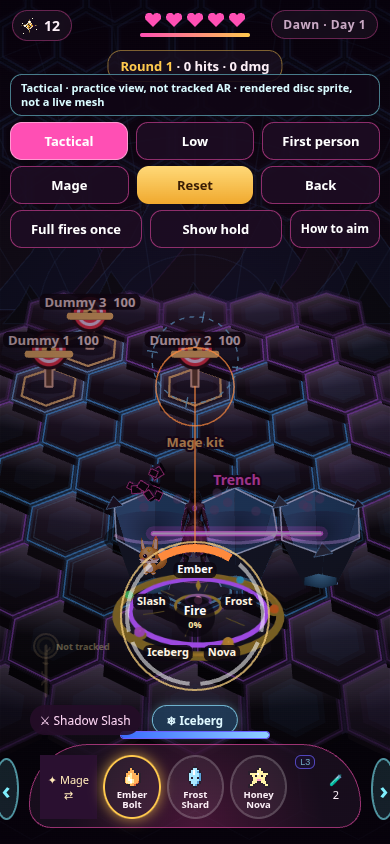
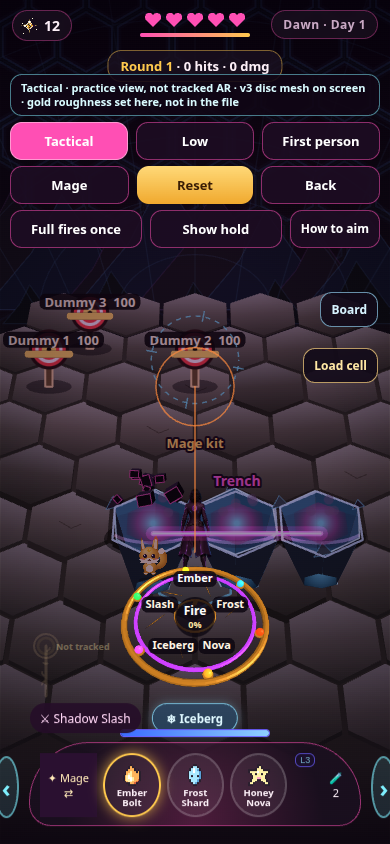
Show a stone training yard with hexes only while aiming
The training yard drops the idle neon grid for a brighter stone floor. Landscape and far tiles stay flatter. Aim, danger, the standing hex, and each slash cell stay visible. Hit tests, trench rules, the map, and map raids are unchanged.

diff --git a/v7/index.html b/v7/index.html
@@ -1707,8 +1707,10 @@ function drawWireUnder(cam, tiles, T, sc) {
 /* overlay: pink seams that glow through the painted tiles, brighter where a pulse front passes */
 function drawWireOver(cam, tiles, T, sc) {
   const m = wireMix(), g = ctx, raid = sc === 'arena' && AR.kind === 'raid';
-  const base = raid ? .07 : .1 + m * .5 + WIRE.glow * .3;
-  g.strokeStyle = raid ? `rgba(150,190,220,${base})` : `rgba(255,79,180,${Math.min(1, base)})`; g.lineWidth = raid ? 1 : 1.1 + m; g.beginPath(); for (const t of tiles) addHex(cam, t.x, t.y, .97, g); g.stroke();
+  if (!(raid && yardStage())) {
+    const base = raid ? .07 : .1 + m * .5 + WIRE.glow * .3;
+    g.strokeStyle = raid ? `rgba(150,190,220,${base})` : `rgba(255,79,180,${Math.min(1, base)})`; g.lineWidth = raid ? 1 : 1.1 + m; g.beginPath(); for (const t of tiles) addHex(cam, t.x, t.y, .97, g); g.stroke();
+  }
   if (WIRE.pulses.some(p => p.sc === sc)) {
     g.globalCompositeOperation = 'lighter';
     for (const t of tiles) { const a = pulseAt(t.x, t.y, sc); if (a < .05) continue; g.strokeStyle = `rgba(255,110,200,${Math.min(1, a)})`; g.lineWidth = 2.4; g.beginPath(); addHex(cam, t.x, t.y, .96, g); g.stroke(); }
@@ -2010,6 +2012,46 @@ function punchBlock() {
 }
 
 /* ---------- arena render ---------- */
+function yardStage() {
+  return !!(TRAIN.on && !TRAIN.king && G.scene === 'arena' && AR.kind === 'raid');
+}
+function yardAiming() {
+  if (!yardStage() || !TRAIN.aim) return false;
+  if (typeof cellOwns === 'function' && cellOwns()) return false;
+  if (TRAIN.cap && (TRAIN.cap.aimed || TRAIN.cap.part === 'center')) return true;
+  return GUN.cls === 'gunner' && !!AR.ptr;
+}
+function yardPreviewHexes() {
+  if (!yardAiming()) return [];
+  const gun = GUN.cls === 'gunner';
+  const rim = currentRim()[TRAIN.sel[gun ? 'gunner' : 'mage']] || (gun ? GUN_RIM[0] : MAGE_RIM[0]);
+  const aim = TRAIN.aim;
+  if (gun) {
+    if (rim.id !== 'frag') return [];
+    const [q, r] = xyHex(aim.x, aim.y);
+    return onField(q, r) ? [[q, r]] : [];
+  }
+  if (rim.id === 'slash') {
+    const [px, py] = pPos();
+    let dx = aim.x - px, dy = aim.y - py;
+    const L = Math.hypot(dx, dy) || 1;
+    dx /= L; dy /= L;
+    return hexesOnLine(px + dx * .9, py + dy * .9, aim.x + dx * 1.6, aim.y + dy * 1.6);
+  }
+  if (rim.id === 'iceberg') {
+    const { q, r } = AR.ph, row = r - 1, LV = wallLv(), hexes = [];
+    for (let i = -1; i <= LV.n - 2; i++) { const h = [q + i, row]; if (onField(h[0], h[1])) hexes.push(h); }
+    return hexes;
+  }
+  if (rim.id === 'ember' || rim.id === 'frost' || rim.id === 'nova') {
+    const [q, r] = xyHex(aim.x, aim.y);
+    return onField(q, r) ? [[q, r]] : [];
+  }
+  return [];
+}
+function yardFloorInfo() {
+  return { yard: yardStage(), spare: W > H, grid: yardStage() ? 'hidden' : 'shown' };
+}
 function renderArenaFloor() {
   if (acv.width !== cv.width || acv.height !== cv.height) { acv.width = cv.width; acv.height = cv.height; }
   const g = actx, c = AR.cam; g.setTransform(DPR, 0, 0, DPR, 0, 0);
@@ -2030,7 +2072,11 @@ function renderArenaFloor() {
       const station = TRAIN.on && !TRAIN.king && ((q === -1 && r === -2) || (q === 1 && r === -2) || (q === 0 && r === -3));
       const lane = TRAIN.on && !TRAIN.king && Math.abs(q) <= 1 && r <= -1 && r >= -4;
       const n = hsh(q * 9 + 2, r * 5 + 1);
-      if (station) { col = '#322838'; lift = 7; }
+      if (yardStage()) {
+        const spare = W > H || d > 2;
+        col = spare ? (n > .6 ? '#6b625c' : '#5e564f') : (station ? '#7a6e66' : lane ? (n > .5 ? '#73675f' : '#655c54') : (n > .72 ? '#6e645c' : n > .38 ? '#5f564f' : '#524b45'));
+        lift = spare ? 1.6 : 3.4;
+      } else if (station) { col = '#322838'; lift = 7; }
       else if (lane) { col = n > .5 ? '#241c2a' : '#1a141f'; lift = 6; }
       else { col = n > .72 ? '#2c2432' : n > .38 ? '#1c1622' : '#121016'; lift = d > 3 ? 3 : 5.5 + n * 2.2; }
     }
@@ -2046,14 +2092,23 @@ function renderArenaFloor() {
       const face = g.createLinearGradient(tx, ty, bx, by);
       face.addColorStop(0, shade(col, .32)); face.addColorStop(.48, col); face.addColorStop(1, shade(col, -.4));
       g.fillStyle = face; g.fill();
-      hexPath(c, x, y, .5, g); g.fillStyle = 'rgba(90,190,255,.055)'; g.fill();
+      if (!yardStage()) { hexPath(c, x, y, .5, g); g.fillStyle = 'rgba(90,190,255,.055)'; g.fill(); }
       hexPath(c, x, y, .94, g);
     } else { g.fillStyle = col; g.fill(); }
     const station = TRAIN.on && !TRAIN.king && AR.kind === 'raid' && ((q === -1 && r === -2) || (q === 1 && r === -2) || (q === 0 && r === -3));
-    const seam = AR.kind === 'hack' ? (d <= 1 && AR.share > .5 ? '255,201,77' : '255,79,180') : (station ? '140,220,255' : d <= 2 ? '80,200,255' : '176,96,220');
-    const lowSeam = raidViewLow();
-    g.strokeStyle = `rgba(${seam},${lowSeam ? .08 : .16})`; g.lineWidth = lowSeam ? 3 : 6; g.stroke(); g.strokeStyle = `rgba(${seam},${d > 3 ? .35 : (lowSeam ? .55 : .8)})`; g.lineWidth = 1.5; g.stroke();
-    if (station) { hexPath(c, x, y, .7, g); g.strokeStyle = 'rgba(255,214,120,.95)'; g.lineWidth = 2.2; g.stroke(); }
+    if (yardStage()) {
+      const spare = W > H || d > 2, n = hsh(q * 9 + 2, r * 5 + 1);
+      if (!spare && n > .66) {
+        const [X, Y] = proj(c, x, y);
+        g.strokeStyle = 'rgba(42,32,28,.45)'; g.lineWidth = 1;
+        g.beginPath(); g.moveTo(X - 10, Y - 2); g.lineTo(X + 2, Y + 5); g.lineTo(X + 12, Y + 1); g.stroke();
+      }
+    } else {
+      const seam = AR.kind === 'hack' ? (d <= 1 && AR.share > .5 ? '255,201,77' : '255,79,180') : (station ? '140,220,255' : d <= 2 ? '80,200,255' : '176,96,220');
+      const lowSeam = raidViewLow();
+      g.strokeStyle = `rgba(${seam},${lowSeam ? .08 : .16})`; g.lineWidth = lowSeam ? 3 : 6; g.stroke(); g.strokeStyle = `rgba(${seam},${d > 3 ? .35 : (lowSeam ? .55 : .8)})`; g.lineWidth = 1.5; g.stroke();
+      if (station) { hexPath(c, x, y, .7, g); g.strokeStyle = 'rgba(255,214,120,.95)'; g.lineWidth = 2.2; g.stroke(); }
+    }
   }
   AR.floorDirty = false;
 }
@@ -2088,13 +2143,16 @@ function drawArena(T) {
   const sh = AR.shake > 0 ? AR.shake * 6 : 0; ctx.save(); if (sh) ctx.translate((Math.random() - .5) * sh, (Math.random() - .5) * sh);
   if (AR.kind === 'raid') {
     // The pink underworld reads as hot seams once the floor is translucent. Raid plates stay opaque; gaps are a dim cyan lattice.
-    ctx.fillStyle = '#07060c'; ctx.fillRect(0, 0, W, H);
-    ctx.strokeStyle = 'rgba(110,160,200,.16)'; ctx.lineWidth = 1; ctx.beginPath();
-    for (const t of AHEX) if (t.d <= 5) addHex(c, t.x, t.y, .99, ctx);
-    ctx.stroke();
+    // Training yard keeps that lattice off. The hex math is unchanged; cues draw only while aiming.
+    ctx.fillStyle = yardStage() ? '#3a342f' : '#07060c'; ctx.fillRect(0, 0, W, H);
+    if (!yardStage()) {
+      ctx.strokeStyle = 'rgba(110,160,200,.16)'; ctx.lineWidth = 1; ctx.beginPath();
+      for (const t of AHEX) if (t.d <= 5) addHex(c, t.x, t.y, .99, ctx);
+      ctx.stroke();
+    }
     ctx.drawImage(acv, 0, 0, W, H);
   } else { drawWireUnder(c, AHEX, T, 'arena'); ctx.globalAlpha = surfaceAlpha(); ctx.drawImage(acv, 0, 0, W, H); ctx.globalAlpha = 1; }
-  drawLowAir(T); drawWireOver(c, AHEX.filter(h => h.d <= 4), T, 'arena'); drawRaidShimmer(c, T);
+  drawLowAir(T); drawWireOver(c, AHEX.filter(h => h.d <= 4), T, 'arena'); if (!yardStage()) drawRaidShimmer(c, T);
   if (TRAIN.on && TRAIN.pulses) for (const p of TRAIN.pulses) {
     const k = clamp(1 - p.t / 0.42, 0, 1), [x, y] = hexXY(p.q, p.r);
     hexPath(c, x, y, 0.82); ctx.globalAlpha = 0.28 * k; ctx.fillStyle = p.col; ctx.fill();
@@ -2115,6 +2173,7 @@ function drawArena(T) {
     if (m.state === 'live' || m.state === 'skin') { if (m.D.aggroR < 50) { ellipseOnGround(c, m.x, m.y, m.D.aggroR, 32); ctx.strokeStyle = m.aggro ? 'rgba(255,79,111,.35)' : 'rgba(255,255,255,.35)'; ctx.setLineDash(m.aggro ? [] : [6, 6]); ctx.lineWidth = 1.5; ctx.stroke(); ctx.setLineDash([]); } }
   }
   drawZones(c, T);
+  if (yardStage()) drawYardCues(c, T);
   // nova ring
   if (AR.novaT >= 0) { const [px, py] = pPos(); ellipseOnGround(c, px, py, AR.novaT * 7, 40); ctx.strokeStyle = `rgba(255,201,77,${1 - AR.novaT / .9})`; ctx.lineWidth = 6; ctx.stroke(); }
   // sprites sorted by depth
@@ -2443,7 +2502,38 @@ function bossLive(m) { $('#bossCD').classList.add('hide'); SFX.roar(); buzz([80,
 
 /* ---------- drawing ---------- */
 function drawPlayerArea(c, T) {
-  for (const [q, r] of PAREA) { const [x, y] = hexXY(q, r), me = q === AR.ph.q && r === AR.ph.r; hexPath(c, x, y, .8); ctx.strokeStyle = me ? 'rgba(127,240,255,.85)' : 'rgba(127,240,255,.22)'; ctx.lineWidth = me ? 2.4 : 1.2; ctx.stroke(); if (me) { ctx.fillStyle = 'rgba(127,240,255,.08)'; ctx.fill(); } }
+  const yard = yardStage();
+  for (const [q, r] of PAREA) { const [x, y] = hexXY(q, r), me = q === AR.ph.q && r === AR.ph.r; if (yard && !me) continue; hexPath(c, x, y, .8); ctx.strokeStyle = me ? 'rgba(127,240,255,.85)' : 'rgba(127,240,255,.22)'; ctx.lineWidth = me ? 2.4 : 1.2; ctx.stroke(); if (me) { ctx.fillStyle = 'rgba(127,240,255,.08)'; ctx.fill(); } }
+}
+function drawYardCues(c, T) {
+  if (!yardAiming()) return;
+  const preview = yardPreviewHexes();
+  const [aq, ar] = xyHex(TRAIN.aim.x, TRAIN.aim.y);
+  for (const [q, r] of preview) {
+    if (!onField(q, r)) continue;
+    const [x, y] = hexXY(q, r);
+    hexPath(c, x, y, .9); ctx.fillStyle = 'rgba(255,196,80,.32)'; ctx.fill();
+    ctx.strokeStyle = 'rgba(255,220,140,.98)'; ctx.lineWidth = 3; ctx.stroke();
+  }
+  if (!onField(aq, ar)) return;
+  const [x, y] = hexXY(aq, ar), listed = preview.some(h => h[0] === aq && h[1] === ar);
+  hexPath(c, x, y, listed ? .62 : .9);
+  if (!listed) { ctx.fillStyle = 'rgba(127,240,255,.18)'; ctx.fill(); }
+  ctx.strokeStyle = 'rgba(190,255,255,.98)'; ctx.lineWidth = 2.6; ctx.stroke();
+}
+function drawYardPit(c, e, x, y, X, Y, f, k, st, T) {
+  ctx.save();
+  ctx.globalAlpha = Math.min(1, k);
+  hexPath(c, x, y, .62);
+  const g = ctx.createRadialGradient(X, Y, 2 * f, X, Y, 34 * f);
+  if (st === 'fire') { g.addColorStop(0, 'rgba(255,196,90,.95)'); g.addColorStop(.5, 'rgba(190,48,16,.8)'); g.addColorStop(1, 'rgba(40,10,8,.15)'); }
+  else if (st === 'ice') { g.addColorStop(0, 'rgba(230,252,255,.9)'); g.addColorStop(1, 'rgba(70,150,190,.2)'); }
+  else { g.addColorStop(0, 'rgba(150,235,255,.8)'); g.addColorStop(.42, 'rgba(210,70,160,.5)'); g.addColorStop(1, 'rgba(20,10,16,0)'); }
+  ctx.fillStyle = g; ctx.fill();
+  ctx.restore();
+  hexPath(c, x, y, .94);
+  ctx.strokeStyle = st === 'fire' ? 'rgba(255,170,80,.95)' : 'rgba(210,240,255,.9)';
+  ctx.lineWidth = 2.2; ctx.stroke();
 }
 function drawZones(c, T) {
   for (const z of AR.zones) {
@@ -2852,7 +2942,8 @@ function terrK(e) { const u = clamp((e.t - e.delay) / .28, 0, 1), back = 1 + 2.4
 function drawTerrain(c, T) {
   const es = [...FIELD.terr.values()].sort((a, b) => a.r - b.r);
   for (const e of es) { const k = terrK(e); if (k <= 0) continue; const [x, y] = hexXY(e.q, e.r), [X, Y, f] = proj(c, x, y), st = hexState(e.q, e.r);
-    if (e.shape === 'berm') drawBerm(c, e, x, y, X, Y, f, k, st, T); else drawGully(c, e, x, y, X, Y, f, k, st, T); }
+    if (e.shape === 'berm') drawBerm(c, e, x, y, X, Y, f, k, st, T);
+    else { drawGully(c, e, x, y, X, Y, f, k, st, T); if (yardStage()) drawYardPit(c, e, x, y, X, Y, f, k, st, T); } }
 }
 function hexPts(c, x, y, s, lift) { return HEXC.map(p => { const P = proj(c, x + p[0] * s, y + p[1] * s); return [P[0], P[1] - lift(p)]; }); }
 function drawBerm(c, e, x, y, X, Y, f, k, st, T) { // low grassy berm: gentle heave, green top, lit crest
@@ -5577,6 +5668,7 @@ window.__train = {
   CELL, CELL_TUNABLE, CELL_ELEMENTS, CELL_TOPOLOGY, loadCell, startCellBolt, kickCell, cancelCell, spendCell, resetCell, cellNet, cellFold, cellAnchor,
   ITEM_LINE, REACH, itemReset, itemFront, itemSend, itemPop,
   markDirty: () => { groundDirty = true; },
+  yardStage, yardAiming, yardPreviewHexes, yardFloorInfo,
 };
 window.__look = { validateLookCatalog, readLookCatalog, LOOK, get catalog() { return LOOKS; }, heavyRef, saveLook };
 

diff --git a/v7/HANDOFF.md b/v7/HANDOFF.md
@@ -6,6 +6,10 @@ Acceptance commit: `3cdab504c8fdb2a5d9746f10df712698d707cca6` on `cursor/v7-mage
 
 Live `/v7/` on main is unchanged. Nothing here was merged or deployed.
 
+## Training yard ground (unpublished test)
+
+The training yard, not the map and not a map raid, draws a brighter stone floor and leaves the idle hex outlines off. Landscape and far tiles use a flatter surface. The hex grid underneath is the same one. While a cast is aimed, the selected hex and the cells that spell will hit light up before release. The standing hex, danger zones, and live field colors stay visible. A slash still cuts one hex at a time: each cut shows a rim and a lit interior, and the step, lava, ice, mob block, timer, and reset rules are unchanged. This was checked in Chrome on the desktop, not on a phone.
+
 ## Casting disc in first person
 
 The training disc, including first person, draws the v3 mesh (5,020 triangles) when WebGL is available. Spell names and the charge percent stay drawn on top so the five game spells stay readable. The mesh itself has six gems, not those five names. If WebGL fails, the old sprite is still there.
